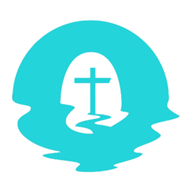
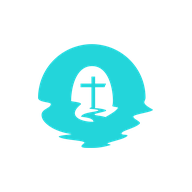
style(fase-3a): tokens Oasis, remapeo Tailwind, accesibilidad base e iconos PWA

diff --git a/ccoasis-app/src/views/CalendarioView.tsx b/ccoasis-app/src/views/CalendarioView.tsx
@@ -404,7 +404,7 @@ export const CalendarioView: React.FC = () => {
                 </span>
               </div>
 
-              <div className="flex flex-wrap items-center gap-4 text-xs sm:text-sm text-blue-100">
+              <div className="flex flex-wrap items-center gap-4 text-xs sm:text-sm text-white">
                 <div className="flex items-center gap-1.5">
                   <CalendarDays className="w-4 h-4 text-white" />
                   <span>{formatEventFriendlyDate(upcomingEvent.start_time)}</span>
@@ -425,7 +425,7 @@ export const CalendarioView: React.FC = () => {
               </div>
 
               {upcomingEvent.description && (
-                <p className="text-xs sm:text-sm text-blue-100/90 max-w-2xl pt-1">
+                <p className="text-xs sm:text-sm text-white max-w-2xl pt-1">
                   {upcomingEvent.description}
                 </p>
               )}
@@ -439,14 +439,14 @@ export const CalendarioView: React.FC = () => {
                   <div className="flex flex-wrap items-center gap-2 pt-1 text-xs">
                     {sum && (sum.confirmed > 0 || sum.maybe > 0) ? (
                       <span className="inline-flex items-center gap-1.5 px-3 py-1 rounded-full font-bold bg-white/20 text-white backdrop-blur-sm">
-                        <CalendarCheck className="w-3.5 h-3.5 text-blue-200" />
+                        <CalendarCheck className="w-3.5 h-3.5 text-white" />
                         <span>
                           {sum.confirmed} {sum.confirmed === 1 ? 'confirmado' : 'confirmados'}
                           {sum.guests > 0 ? ` (${sum.guests} ${sum.guests === 1 ? 'invitado' : 'invitados'})` : ''}
                         </span>
                       </span>
                     ) : (
-                      <span className="text-xs text-blue-200/80 italic">Sin confirmaciones aún</span>
+                      <span className="text-xs text-white italic">Sin confirmaciones aún</span>
                     )}
 
                     {isFuture && (
@@ -454,7 +454,7 @@ export const CalendarioView: React.FC = () => {
                         <button
                           type="button"
                           onClick={() => setRsvpModalEvent(upcomingEvent)}
-                          className="px-3 py-1 rounded-full font-bold bg-emerald-500 hover:bg-emerald-600 text-white transition-colors flex items-center gap-1.5 shadow-sm"
+                          className="px-3 py-1 rounded-full font-bold bg-emerald-700 hover:bg-emerald-800 text-white transition-colors flex items-center gap-1.5 shadow-sm"
                           title="Modificar tu confirmación"
                         >
                           <Check className="w-3.5 h-3.5" />
@@ -478,7 +478,7 @@ export const CalendarioView: React.FC = () => {
                         </button>
                       ) : (
                         <span
-                          className="px-3 py-1 rounded-full text-xs font-medium bg-white/15 text-blue-100"
+                          className="px-3 py-1 rounded-full text-xs font-medium bg-white/20 text-white"
                           title="Tu cuenta aún no está vinculada a tu ficha; pídele al administrador que la vincule"
                         >
                           Cuenta sin vincular para confirmar
@@ -497,7 +497,7 @@ export const CalendarioView: React.FC = () => {
                   className="px-3.5 py-2.5 rounded-xl bg-white/20 hover:bg-white/30 active:bg-white/40 text-white text-xs font-bold backdrop-blur-sm shadow-sm transition-colors flex items-center gap-1.5 min-h-[40px]"
                   title="Ver lista de personas que han confirmado asistencia"
                 >
-                  <Users className="w-4 h-4 text-blue-200" />
+                  <Users className="w-4 h-4 text-white" />
                   <span>Ver confirmados</span>
                 </button>
               )}

diff --git a/ccoasis-app/tailwind.config.js b/ccoasis-app/tailwind.config.js
@@ -1,4 +1,46 @@
 /** @type {import('tailwindcss').Config} */
+const oasisCyan = {
+  50: '#eefcfc',
+  100: '#d9f7f8',
+  200: '#aaeef0',
+  300: '#6ddfe3',
+  400: '#23d5da', // Cian del logo (cabecera con texto oscuro #1a1a1a)
+  500: '#0f9aa2', // Inicio degradado títulos grandes y anillos de foco (3.41:1 sobre blanco)
+  600: '#0e7c86', // Primario accesible con texto blanco (4.95:1) y texto sobre blanco (4.95:1)
+  700: '#0a5961', // Hover primario / texto sobre 100 (7.96:1 sobre blanco, 7.12:1 sobre #d9f7f8)
+  800: '#08474e',
+  900: '#06373c',
+  950: '#042428',
+}
+
+const oasisMagenta = {
+  50: '#fdf5f9',
+  100: '#f6e6ef',
+  200: '#ebcce0',
+  300: '#daa3c5',
+  400: '#c473a4',
+  500: '#ae4a84', // Magenta del logo (5.11:1 con blanco, 5.11:1 sobre blanco)
+  600: '#ae4a84', // Barra magenta / acción secundaria (5.11:1 con blanco)
+  700: '#8f3b6b', // Hover magenta / texto sobre gris (6.99:1 con blanco)
+  800: '#7a2f5a', // Texto sobre #f6e6ef (7.34:1)
+  900: '#5e2345',
+  950: '#3d152c',
+}
+
+const oasisNeutral = {
+  50: '#f5f5f5',  // Fondo principal de página (--bg)
+  100: '#ebedef', // Superficie secundaria (--surface-muted)
+  200: '#d4d7dc', // Divisores y bordes decorativos (--border)
+  300: '#858a93', // Bordes de controles >= 3:1 (3.47:1 sobre blanco)
+  400: '#5b6068', // Iconos / placeholders accesibles (6.33:1 sobre blanco)
+  500: '#4a4f57', // Texto secundario (--text-muted, 8.24:1 sobre blanco)
+  600: '#3b3f46',
+  700: '#2c3036',
+  800: '#22252a',
+  900: '#1a1a1a', // Texto principal (--text, 17.40:1 sobre blanco)
+  950: '#111316',
+}
+
 export default {
   content: [
     "./index.html",
@@ -7,16 +49,48 @@ export default {
   theme: {
     extend: {
       colors: {
-        brand: {
-          50: '#eff6ff',
-          100: '#dbeafe',
-          500: '#3b82f6',
-          600: '#2563eb',
-          700: '#1d4ed8',
-          800: '#1e40af',
-          900: '#1e3a8a',
-        }
-      }
+        brand: oasisCyan,
+        blue: oasisCyan,
+        magenta: oasisMagenta,
+        indigo: oasisMagenta,
+        slate: oasisNeutral,
+        'app-bg': 'var(--bg)',
+        surface: 'var(--surface)',
+        'surface-muted': 'var(--surface-muted)',
+        ink: 'var(--text)',
+        'ink-muted': 'var(--text-muted)',
+        line: 'var(--border)',
+        control: 'var(--border-control)',
+        'brand-cyan': 'var(--brand-cyan)',
+        'brand-magenta': 'var(--brand-magenta)',
+        primary: {
+          DEFAULT: 'var(--primary)',
+          hover: 'var(--primary-hover)',
+          soft: 'var(--primary-soft)',
+          ink: 'var(--primary-ink)',
+        },
+        link: {
+          DEFAULT: 'var(--brand-magenta)',
+          gray: 'var(--link-on-gray)',
+        },
+        focus: {
+          DEFAULT: 'var(--focus)',
+          cyan: 'var(--focus-on-cyan)',
+          magenta: 'var(--focus-on-magenta)',
+        },
+        danger: {
+          DEFAULT: 'var(--danger)',
+          soft: 'var(--danger-soft)',
+        },
+        success: {
+          DEFAULT: 'var(--success)',
+          soft: 'var(--success-soft)',
+        },
+        warning: {
+          DEFAULT: 'var(--warning)',
+          soft: 'var(--warning-soft)',
+        },
+      },
     },
   },
   plugins: [],

diff --git a/ccoasis-app/src/index.css b/ccoasis-app/src/index.css
@@ -2,7 +2,71 @@
 @tailwind components;
 @tailwind utilities;
 
+:root {
+  --bg: #f5f5f5;
+  --surface: #ffffff;
+  --surface-muted: #ebedef;
+  --text: #1a1a1a;
+  --text-muted: #4a4f57;
+  --border: #d4d7dc;
+  --border-control: #767b83;
+  --brand-cyan: #23d5da;
+  --brand-cyan-grad: #0f9aa2;
+  --primary: #0e7c86;
+  --primary-hover: #0a5961;
+  --primary-soft: #d9f7f8;
+  --primary-ink: #0a5961;
+  --brand-magenta: #ae4a84;
+  --link-on-gray: #9a3f73;
+  --magenta-hover: #8f3b6b;
+  --magenta-soft: #f6e6ef;
+  --magenta-ink: #7a2f5a;
+  --focus: #0e7c86;
+  --focus-on-cyan: #1a1a1a;
+  --focus-on-magenta: #ffffff;
+  --danger: #9b1c1c;
+  --danger-soft: #fdecec;
+  --success: #14532d;
+  --success-soft: #e3f5e9;
+  --warning: #713f12;
+  --warning-soft: #fdf3d6;
+
+  font-family: Inter, system-ui, -apple-system, BlinkMacSystemFont, 'Segoe UI', Roboto, Oxygen, Ubuntu, Cantarell, sans-serif;
+  -webkit-font-smoothing: antialiased;
+  -moz-osx-font-smoothing: grayscale;
+}
+
+body {
+  margin: 0;
+  min-height: 100vh;
+  background-color: var(--bg);
+  color: var(--text);
+}
+
+/* Foco visible con contraste >= 3:1 en todas las superficies */
+:focus-visible {
+  outline: 3px solid var(--focus);
+  outline-offset: 2px;
+}
+
+.on-cyan :focus-visible {
+  outline-color: var(--focus-on-cyan);
+}
+
+.on-magenta :focus-visible {
+  outline-color: var(--focus-on-magenta);
+}
+
 @layer utilities {
+  /* Degradado exclusivo para títulos grandes (h1 >= 24px bold, contraste >= 3.41:1) */
+  .oasis-title-gradient {
+    color: var(--primary);
+    background-image: linear-gradient(135deg, #0f9aa2 0%, #ae4a84 100%);
+    -webkit-background-clip: text;
+    background-clip: text;
+    -webkit-text-fill-color: transparent;
+  }
+
   /* Ocultar barra de desplazamiento nativa manteniendo scroll táctil */
   .scrollbar-none {
     -ms-overflow-style: none; /* IE y Edge */
@@ -43,15 +107,14 @@
   }
 }
 
-:root {
-  font-family: Inter, system-ui, -apple-system, BlinkMacSystemFont, 'Segoe UI', Roboto, Oxygen, Ubuntu, Cantarell, sans-serif;
-  -webkit-font-smoothing: antialiased;
-  -moz-osx-font-smoothing: grayscale;
-}
-
-body {
-  margin: 0;
-  min-height: 100vh;
-  background-color: #f8fafc;
-  color: #0f172a;
+/* Accesibilidad: respetar prefers-reduced-motion */
+@media (prefers-reduced-motion: reduce) {
+  *,
+  *::before,
+  *::after {
+    animation-duration: 0.01ms !important;
+    animation-iteration-count: 1 !important;
+    transition-duration: 0.01ms !important;
+    scroll-behavior: auto !important;
+  }
 }

diff --git a/ccoasis-app/vite.config.ts b/ccoasis-app/vite.config.ts
@@ -8,13 +8,13 @@ export default defineConfig({
     react(),
     VitePWA({
       registerType: 'autoUpdate',
-      includeAssets: ['favicon.png', 'apple-touch-icon.png', 'icon-192.png', 'icon-512.png', 'logo.png'],
+      includeAssets: ['favicon.png', 'apple-touch-icon.png', 'icon-192.png', 'icon-512.png', 'icon-maskable-512.png', 'logo.png'],
       manifest: {
         name: 'Centro Cristiano Oasis',
         short_name: 'CC Oasis',
         description: 'Gestión Eclesial y Discipulado - Centro Cristiano Oasis',
-        theme_color: '#2563eb',
-        background_color: '#f8fafc',
+        theme_color: '#23d5da',
+        background_color: '#f5f5f5',
         display: 'standalone',
         orientation: 'portrait-primary',
         lang: 'es',
@@ -24,13 +24,19 @@ export default defineConfig({
             src: '/icon-192.png',
             sizes: '192x192',
             type: 'image/png',
-            purpose: 'any maskable'
+            purpose: 'any'
           },
           {
             src: '/icon-512.png',
             sizes: '512x512',
             type: 'image/png',
-            purpose: 'any maskable'
+            purpose: 'any'
+          },
+          {
+            src: '/icon-maskable-512.png',
+            sizes: '512x512',
+            type: 'image/png',
+            purpose: 'maskable'
           }
         ]
       },

diff --git a/ccoasis-app/index.html b/ccoasis-app/index.html
@@ -3,8 +3,8 @@
   <head>
     <meta charset="UTF-8" />
     <link rel="icon" type="image/png" href="/favicon.png" />
-    <meta name="viewport" content="width=device-width, initial-scale=1.0, maximum-scale=1.0, user-scalable=no, viewport-fit=cover" />
-    <meta name="theme-color" content="#2563eb" />
+    <meta name="viewport" content="width=device-width, initial-scale=1.0, viewport-fit=cover" />
+    <meta name="theme-color" content="#23d5da" />
     <meta name="description" content="Centro Cristiano Oasis - Plataforma de gestión eclesial y discipulado" />
     <link rel="apple-touch-icon" href="/apple-touch-icon.png" />
     <meta name="apple-mobile-web-app-capable" content="yes" />
@@ -12,7 +12,7 @@
     <meta name="apple-mobile-web-app-title" content="CC Oasis" />
     <title>Centro Cristiano Oasis</title>
   </head>
-  <body class="bg-slate-50 text-slate-900 selection:bg-blue-100 selection:text-blue-900">
+  <body class="bg-slate-50 text-slate-900 selection:bg-brand-100 selection:text-brand-900">
     <div id="root"></div>
     <script type="module" src="/src/main.tsx"></script>
   </body>

diff --git a/ccoasis-app/src/components/AppLayout.tsx b/ccoasis-app/src/components/AppLayout.tsx
@@ -274,7 +274,7 @@ export const AppLayout: React.FC = () => {
                     }}
                     className={`w-full flex items-center gap-3.5 p-3.5 rounded-xl border text-left transition-all ${
                       isActive
-                        ? 'bg-blue-50/90 border-blue-300 text-blue-900 shadow-xs ring-1 ring-blue-400'
+                        ? 'bg-blue-50/90 border-blue-600 text-blue-900 shadow-xs ring-1 ring-blue-600'
                         : 'bg-white hover:bg-slate-50 border-slate-200 text-slate-800 hover:border-slate-300 active:bg-slate-100'
                     }`}
                   >
@@ -311,7 +311,7 @@ export const AppLayout: React.FC = () => {
                     </div>
 
                     <ChevronRight
-                      className={`w-5 h-5 flex-shrink-0 ${isActive ? 'text-blue-500' : 'text-slate-400'}`}
+                      className={`w-5 h-5 flex-shrink-0 ${isActive ? 'text-blue-600' : 'text-slate-400'}`}
                     />
                   </button>
                 );

diff --git a/ccoasis-app/src/components/SelfChangePasswordModal.tsx b/ccoasis-app/src/components/SelfChangePasswordModal.tsx
@@ -113,14 +113,15 @@ export const SelfChangePasswordModal: React.FC<SelfChangePasswordModalProps> = (
             </div>
             <div>
               <h2 className="text-lg font-bold leading-tight">Cambiar mi contraseña</h2>
-              <p className="text-xs text-blue-100">Actualiza tu clave de acceso personal</p>
+              <p className="text-xs text-white/95">Actualiza tu clave de acceso personal</p>
             </div>
           </div>
           <button
             onClick={onClose}
             disabled={isSubmitting}
-            className="p-1.5 rounded-lg text-white/80 hover:text-white hover:bg-white/10 transition-colors disabled:opacity-50"
+            className="p-2 min-w-[44px] min-h-[44px] flex items-center justify-center rounded-lg text-white hover:bg-white/15 transition-colors disabled:opacity-50"
             title="Cerrar"
+            aria-label="Cerrar"
           >
             <X className="w-5 h-5" />
           </button>

diff --git a/ccoasis-app/src/components/calendario/CalendarGridView.tsx b/ccoasis-app/src/components/calendario/CalendarGridView.tsx
@@ -379,7 +379,7 @@ export const CalendarGridView: React.FC<CalendarGridViewProps> = ({
                   cellStyle = 'bg-blue-50 border-2 border-blue-600 text-blue-950 ring-4 ring-blue-600 ring-offset-1 font-black shadow-md z-10';
                   numberColor = 'text-blue-950 font-black';
                 } else if (cell.isToday) {
-                  cellStyle = 'bg-blue-50/70 border-blue-400 text-blue-900 ring-2 ring-blue-500 font-bold';
+                  cellStyle = 'bg-blue-50/70 border-blue-600 text-blue-900 ring-2 ring-blue-600 font-bold';
                   numberColor = 'text-blue-900 font-bold';
                 }
               }

diff --git a/ccoasis-app/scripts/design/make_icons.py b/ccoasis-app/scripts/design/make_icons.py
@@ -57,6 +57,9 @@ def main():
         'icon-512.png': 512,
         'icon-maskable-512.png': 512,
     }
+    if os.path.abspath(OUT) == os.path.abspath(os.path.join(ROOT, 'public')):
+        targets['apple-touch-icon.png'] = 180
+        targets['favicon.png'] = 64
     for name, size in targets.items():
         icon = make_icon(symbol, size).convert('RGB')
         icon.save(os.path.join(OUT, name), optimize=True)
